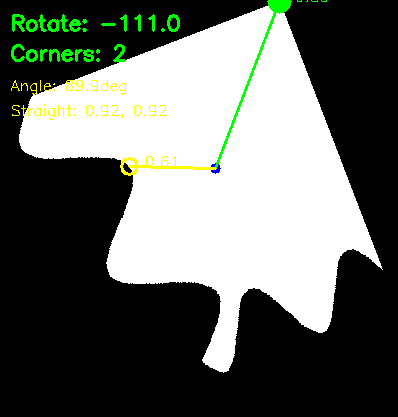
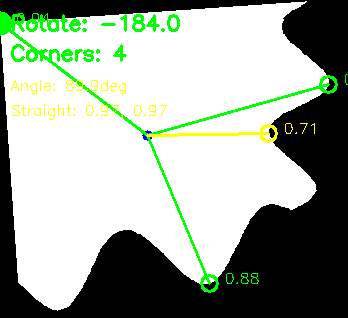
deeper iteration

diff --git a/src/solver/iterative_solver.py b/src/solver/iterative_solver.py
@@ -45,10 +45,10 @@ class IterativeSolver:
                      piece_shapes: Dict[int, np.ndarray],
                      piece_corner_info: Dict[int, PieceCornerInfo],
                      target: np.ndarray,
-                     score_threshold: float = 100000.0,
-                     max_iterations: int = 6) -> IterativeSolution:
+                     score_threshold: float = 230000.0,
+                     max_corner_combos: int = 100) -> IterativeSolution:
         """
-        Generate guesses with all corner pieces placed in corners.
+        Try different combinations of corners for each piece.
         """
         print("\n🔄 Starting iterative solving...")
         
@@ -59,16 +59,15 @@ class IterativeSolver:
         self.all_guesses = []
         self.all_scores = []
         
-        # Generate guesses with ALL corner pieces in corners
-        guesses = self._generate_guesses_with_all_corners(
-            piece_shapes,
-            piece_corner_info,
-            target,
-            max_guesses=max_iterations * 10  # More guesses since we're trying permutations
-        )
+        # Find pieces with corners
+        corner_pieces = [
+            (piece_id, info) 
+            for piece_id, info in piece_corner_info.items() 
+            if info.has_corner and len(info.corner_rotations) > 0
+        ]
         
-        if not guesses:
-            print("  ⚠  No guesses generated!")
+        if not corner_pieces:
+            print("  ⚠  No corner pieces found!")
             return IterativeSolution(
                 success=False,
                 anchor_fit=None,
@@ -79,42 +78,138 @@ class IterativeSolver:
                 all_guesses=[]
             )
         
-        print(f"  Testing {len(guesses)} placement combinations...")
+        print(f"\n  Found {len(corner_pieces)} pieces with corners:")
+        for piece_id, info in corner_pieces:
+            print(f"    Piece {piece_id}: {len(info.corner_rotations)} corners detected")
+        
+        # Generate all combinations of corner selections
+        import itertools
+        piece_corner_options = []
+        for piece_id, info in corner_pieces:
+            # Each piece can use any of its detected corners
+            piece_corner_options.append(list(range(len(info.corner_rotations))))
+        
+        all_corner_combinations = list(itertools.product(*piece_corner_options))
+        total_combos = len(all_corner_combinations)
+        
+        print(f"  Total corner combinations possible: {total_combos}")
+        
+        # Prioritize: try best corners first, then explore alternatives
+        # Sort combinations by sum of corner qualities
+        def combo_quality(combo_indices):
+            total_quality = 0
+            for (piece_id, info), corner_idx in zip(corner_pieces, combo_indices):
+                total_quality += info.corner_qualities[corner_idx].overall_score
+            return total_quality
+        
+        all_corner_combinations.sort(key=combo_quality, reverse=True)
+        
+        # Limit combinations
+        if total_combos > max_corner_combos:
+            print(f"  Limiting to best {max_corner_combos} combinations (by quality)")
+            all_corner_combinations = all_corner_combinations[:max_corner_combos]
         
         best_score = -float('inf')
         best_guess = None
+        no_improvement_count = 0
+        last_best_score = -float('inf')
         
-        for i, guess in enumerate(guesses):
-            self.all_guesses.append(guess)
+        for combo_idx, corner_indices in enumerate(all_corner_combinations):
+            print(f"\n  === Combination {combo_idx + 1}/{len(all_corner_combinations)} ===")
             
-            rendered = self.renderer.render(guess, piece_shapes)
-            score = self.scorer.score(rendered, target)
+            # Calculate quality of this combination
+            combo_qual = combo_quality(corner_indices)
+            print(f"  Corner indices: {corner_indices} (combined quality: {combo_qual:.3f})")
             
-            self.all_scores.append(score)
+            # Create modified corner info using selected corners
+            modified_corner_info = {}
             
-            if score > best_score:
-                best_score = score
-                best_guess = guess
+            for (piece_id, info), corner_idx in zip(corner_pieces, corner_indices):
+                selected_rotation = info.corner_rotations[corner_idx]
+                selected_quality = info.corner_qualities[corner_idx]
+                
+                print(f"    Piece {piece_id}: Corner #{corner_idx+1}, quality={selected_quality.overall_score:.3f}, rotation={selected_rotation:.1f}°")
+                
+                modified_corner_info[piece_id] = PieceCornerInfo(
+                    piece_id=piece_id,
+                    has_corner=True,
+                    corner_count=1,
+                    corner_positions=[selected_quality.position],
+                    corner_qualities=[selected_quality],
+                    corner_rotations=[selected_rotation],
+                    primary_corner_angle=None,
+                    rotation_to_bottom_right=selected_rotation,
+                    piece_center=info.piece_center
+                )
             
-            if i % 10 == 0 and i > 0:
-                print(f"    Progress: {i}/{len(guesses)}, best: {best_score:.1f}")
+            # Generate MORE guesses per combo - more chances to get non-corner pieces right
+            num_guesses = 50 if combo_idx < 10 else 20  # More attempts for best combos
             
-            # Early stop if we found a great solution
-            if score >= score_threshold:
-                print(f"    🎉 Found solution exceeding threshold!")
+            guesses = self._generate_guesses_with_all_corners(
+                piece_shapes,
+                modified_corner_info,
+                target,
+                max_guesses=num_guesses
+            )
+            
+            if not guesses:
+                continue
+            
+            # Score all guesses
+            combo_best = -float('inf')
+            for guess in guesses:
+                self.all_guesses.append(guess)
+                rendered = self.renderer.render(guess, piece_shapes)
+                score = self.scorer.score(rendered, target)
+                self.all_scores.append(score)
+                
+                if score > combo_best:
+                    combo_best = score
+                if score > best_score:
+                    best_score = score
+                    best_guess = guess
+                    no_improvement_count = 0  # Reset counter
+            
+            print(f"  Combo best: {combo_best:.1f}, Overall best: {best_score:.1f}")
+            
+            # Track improvement
+            if best_score <= last_best_score:
+                no_improvement_count += 1
+            last_best_score = max(last_best_score, best_score)
+            
+            # Early exit if we found a great solution
+            if best_score >= score_threshold:
+                print(f"\n  🎉 Found solution exceeding threshold ({score_threshold})!")
+                break
+            
+            # Early exit if no improvement for many attempts (but only after trying at least 20 combos)
+            if combo_idx >= 20 and no_improvement_count >= 15:
+                print(f"\n  ⚠  No improvement for 15 combinations, stopping early")
+                print(f"  Best score achieved: {best_score:.1f}")
                 break
         
         print(f"\n🏆 Best solution: score {best_score:.1f}")
+        print(f"📊 Tried {min(combo_idx + 1, len(all_corner_combinations))} corner combinations")
+        print(f"📊 Total guesses: {len(self.all_guesses)}")
+        
+        success = best_score >= score_threshold * 0.5  # Success if we get at least 50% of threshold
+        
+        if not success and best_score > 50000:
+            print(f"\n  💡 Score {best_score:.1f} suggests corner pieces might be correct")
+            print(f"     but edge/center pieces are misplaced. Consider:")
+            print(f"     - Increasing guesses per combo (currently {num_guesses})")
+            print(f"     - Smarter placement strategies for non-corner pieces")
         
         return IterativeSolution(
-            success=best_score > 0,
+            success=success,
             anchor_fit=None,
             remaining_placements=best_guess or [],
             score=best_score,
-            iteration=len(guesses),
-            total_iterations=len(guesses),
+            iteration=min(combo_idx + 1, len(all_corner_combinations)),
+            total_iterations=len(all_corner_combinations),
             all_guesses=self.all_guesses
         )
+
     """"
     def _try_piece_as_anchor(self,
                         candidate: PieceCornerInfo,

diff --git a/src/solver/piece_analyzer.py b/src/solver/piece_analyzer.py
@@ -18,6 +18,7 @@ class CornerQuality:
     overall_score: float  # Combined quality score
 
 
+
 @dataclass
 class PieceCornerInfo:
     """Information about a piece's corner characteristics."""
@@ -25,9 +26,10 @@ class PieceCornerInfo:
     has_corner: bool
     corner_count: int
     corner_positions: List[Tuple[int, int]]
-    corner_qualities: List[CornerQuality]  # NEW: Quality info for each corner
+    corner_qualities: List[CornerQuality]
+    corner_rotations: List[float]  
     primary_corner_angle: Optional[float]
-    rotation_to_bottom_right: Optional[float]
+    rotation_to_bottom_right: Optional[float] 
     piece_center: Tuple[float, float]
 
 
@@ -64,33 +66,32 @@ class PieceAnalyzer:
             
             primary_corner_angle = None
             rotation_to_bottom_right = None
+            corner_rotations = []
+            
+            # Calculate rotation for ALL detected corners
+            for corner_quality in corner_qualities:
+                bisector_angle = corner_quality.bisector_angle
+                target_bisector = 135.0  # Bottom-right corner's inward bisector
+                
+                # Calculate raw rotation needed
+                raw_rotation = (target_bisector - bisector_angle) % 360
+                
+                # Apply the transformation that the renderer expects
+                rotation = -(raw_rotation + 90)
+                corner_rotations.append(rotation)
             
             if has_corner and corner_qualities:
-                # Select PRIMARY corner based on quality, not just distance
-                # Prioritize: 90° accuracy > straightness > distance from center
+                # Select PRIMARY corner based on quality
                 primary_corner_quality = max(corner_qualities, key=lambda cq: cq.overall_score)
                 primary_corner = primary_corner_quality.position
                 
-                print(f"    Piece {piece_id} primary corner quality:")
-                print(f"      Angle: {primary_corner_quality.angle:.1f}° (score: {primary_corner_quality.angle_score:.3f})")
-                print(f"      Edge straightness: {primary_corner_quality.edge1_straightness:.3f}, {primary_corner_quality.edge2_straightness:.3f}")
-                print(f"      Bisector points at: {primary_corner_quality.bisector_angle:.1f}°")
-                print(f"      Overall score: {primary_corner_quality.overall_score:.3f}")
+                print(f"    Piece {piece_id} detected {len(corner_qualities)} corner(s):")
+                for i, (cq, rot) in enumerate(zip(corner_qualities, corner_rotations)):
+                    marker = "⭐" if i == 0 else "  "
+                    print(f"      {marker} Corner {i+1}: quality={cq.overall_score:.3f}, rotation={rot:.1f}°")
                 
-                # For a bottom-right corner in a rectangular target:
-                # The vectors v1 and v2 point FROM the corner TO adjacent points (inward)
-                # So the bisector points INWARD toward the piece center
-                # For a bottom-right corner, the inward bisector points at 135° (northwest)
-
-                bisector_angle = primary_corner_quality.bisector_angle
-                target_bisector = 135.0  # Bottom-right corner's inward bisector
-
-                # Calculate raw rotation needed
-                raw_rotation = (target_bisector - bisector_angle) % 360
-
-                # Apply the transformation that the renderer expects
-                # This is the theta value we'll use directly in guesses
-                rotation_to_bottom_right = -(raw_rotation + 90)
+                # Store primary corner rotation
+                rotation_to_bottom_right = corner_rotations[0]
                 
                 # Also store the position-based angle for reference
                 dx = primary_corner[0] - cx
@@ -103,6 +104,7 @@ class PieceAnalyzer:
                 corner_count=corner_count,
                 corner_positions=corners,
                 corner_qualities=corner_qualities,
+                corner_rotations=corner_rotations,  # NEW: All rotations
                 primary_corner_angle=primary_corner_angle,
                 rotation_to_bottom_right=rotation_to_bottom_right,
                 piece_center=piece_center
@@ -118,6 +120,7 @@ class PieceAnalyzer:
                 corner_count=0,
                 corner_positions=[],
                 corner_qualities=[],
+                corner_rotations=[],  # NEW
                 primary_corner_angle=None,
                 rotation_to_bottom_right=None,
                 piece_center=(0.0, 0.0)

diff --git a/src/core/pipeline.py b/src/core/pipeline.py
@@ -187,8 +187,7 @@ class PuzzlePipeline:
             piece_shapes=piece_shapes,
             piece_corner_info=piece_corner_info,
             target=target,
-            score_threshold=50000.0,
-            max_iterations=6
+            score_threshold=230000.0
         )
         
         if not solution.success:
